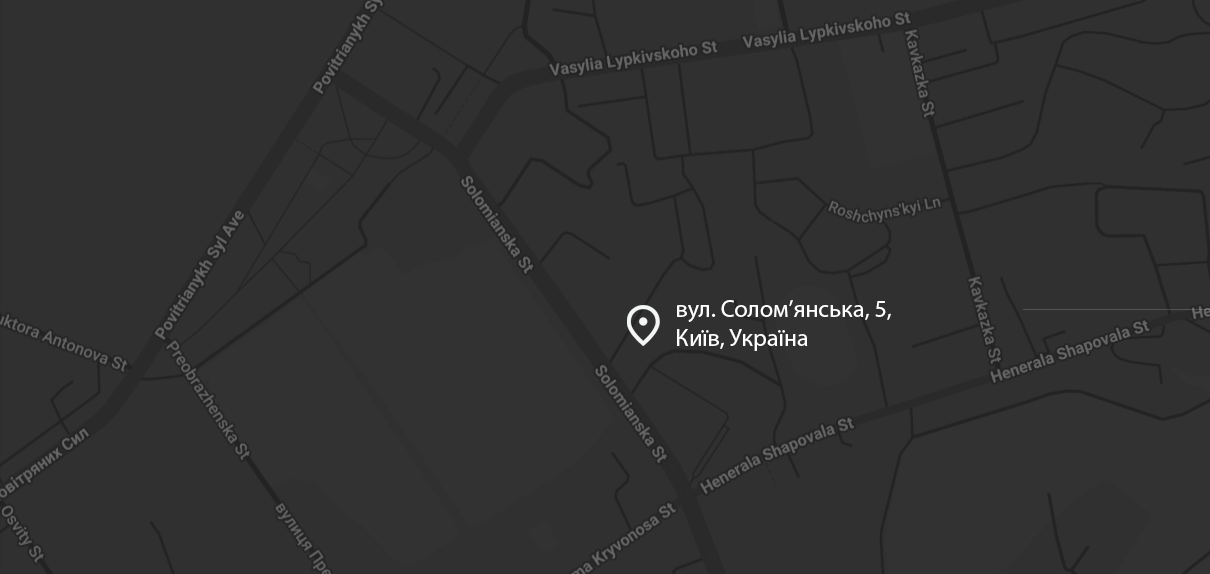
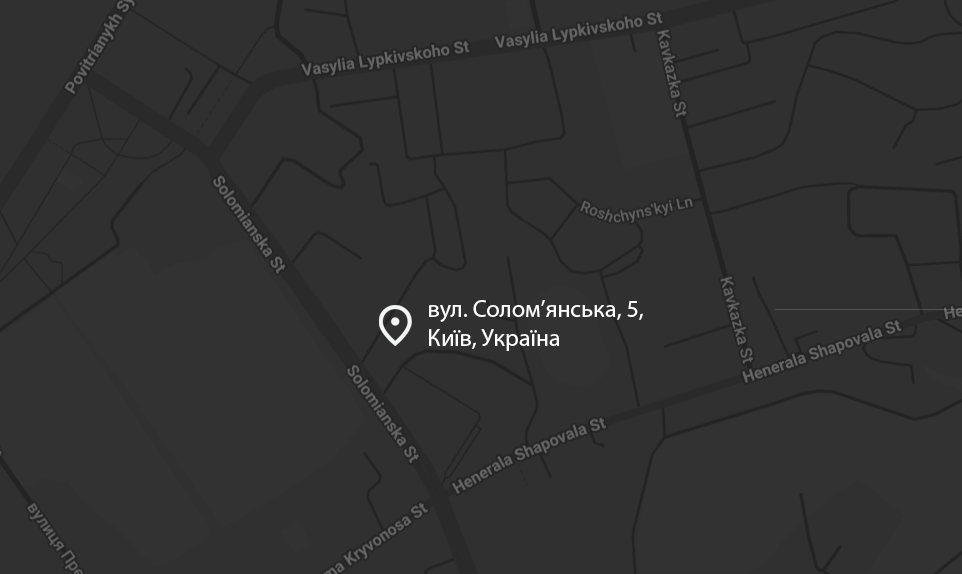
Fix minor problems.

diff --git a/index.html b/index.html
@@ -377,17 +377,6 @@
               Передача даних з обладнання та датчиків
             </p>
           </div>
-          <div class="app-card">
-            <img
-              src="assets/images/payment_terminals.svg"
-              alt="Платіжні термінали"
-              class="app-card__icon"
-            />
-            <h3 class="app-card__title">Платіжні термінали</h3>
-            <p class="app-card__text">
-              Надійний зв'язок для банківських та платіжних систем
-            </p>
-          </div>
         </div>
       </div>
     </section>
@@ -573,11 +562,32 @@
             href="https://www.google.com/maps/place/%D0%B2%D1%83%D0%BB%D0%B8%D1%86%D1%8F+%D0%A1%D0%BE%D0%BB%D0%BE%D0%BC'%D1%8F%D0%BD%D1%81%D1%8C%D0%BA%D0%B0,+5,+%D0%9A%D0%B8%D1%97%D0%B2,+02000/@50.4292719,30.4740125,17.3z/data=!4m6!3m5!1s0x40d4cec096b20375:0xe10485e9d7544aaa!8m2!3d50.4292232!4d30.4751274!16s%2Fg%2F11c4dc3zvj?hl=uk&entry=ttu&g_ep=EgoyMDI2MDgyNi4wIKXMDSoASAFQAw%3D%3D"
             target="_blank"
           >
-            <img
-              src="assets/images/map.png"
-              alt="Карта проїзду"
-              class="footer__map-image"
-            />
+            <picture>
+              <!-- Loads the desktop map on screens 1440px and wider -->
+              <source
+                media="(min-width: 1440px)"
+                srcset="assets/images/map-wide.png"
+              />
+
+              <!-- Loads the desktop map on screens between 1024px and 1439px -->
+              <source
+                media="(min-width: 1024px)"
+                srcset="assets/images/map.png"
+              />
+
+              <!-- Loads the tablet map on screens between 500px and 1023px -->
+              <source
+                media="(min-width: 500px)"
+                srcset="assets/images/map-tablet.png"
+              />
+
+              <!-- Mobile map acts as the default fallback (under 768px) -->
+              <img
+                src="assets/images/map-mobile.png"
+                alt="Карта проїзду"
+                class="footer__map-image"
+              />
+            </picture>
           </a>
         </div>
       </div>

diff --git a/css/index.css b/css/index.css
@@ -394,7 +394,6 @@ html {
   left: 5%;
 }
 
-/* The Text Nodes - Positioned ABSOLUTE inside the sticky container! */
 .dlrtt-copy {
   position: absolute;
   z-index: 11;
@@ -474,7 +473,7 @@ html {
 }
 
 .app-card__icon {
-  height: 64px;
+  height: 72px;
   width: auto;
   margin-bottom: 24px;
 }
@@ -797,12 +796,6 @@ html {
     grid-template-columns: repeat(2, 1fr);
   }
 
-  .app-card:last-child {
-    grid-column: 1 / -1;
-    max-width: 320px;
-    margin: 0 auto;
-  }
-
   .trusted {
     padding: 80px 24px;
   }
@@ -939,10 +932,11 @@ html {
 
   .applications {
     padding: 0px;
+    margin: 0 auto;
   }
 
   .applications__grid {
-    grid-template-columns: repeat(5, 1fr);
+    grid-template-columns: repeat(4, 1fr);
     gap: 0;
   }
 
